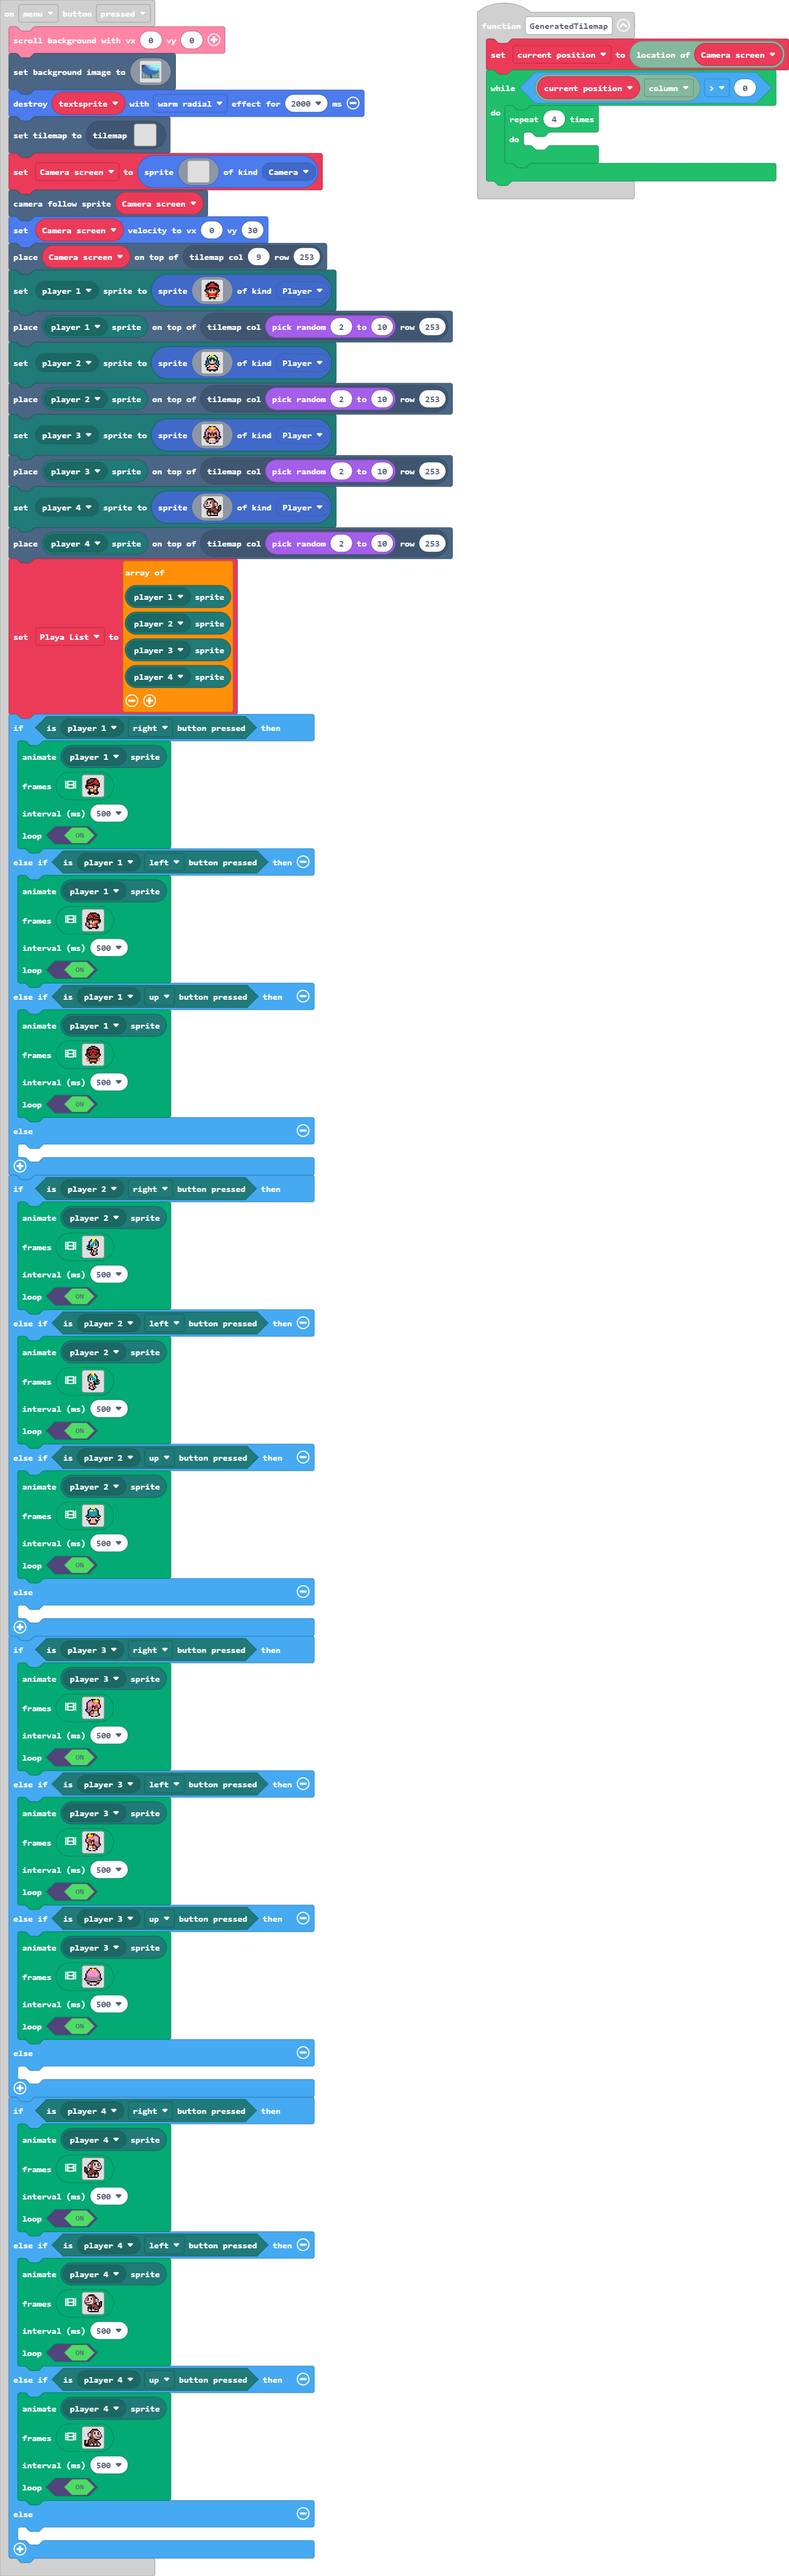
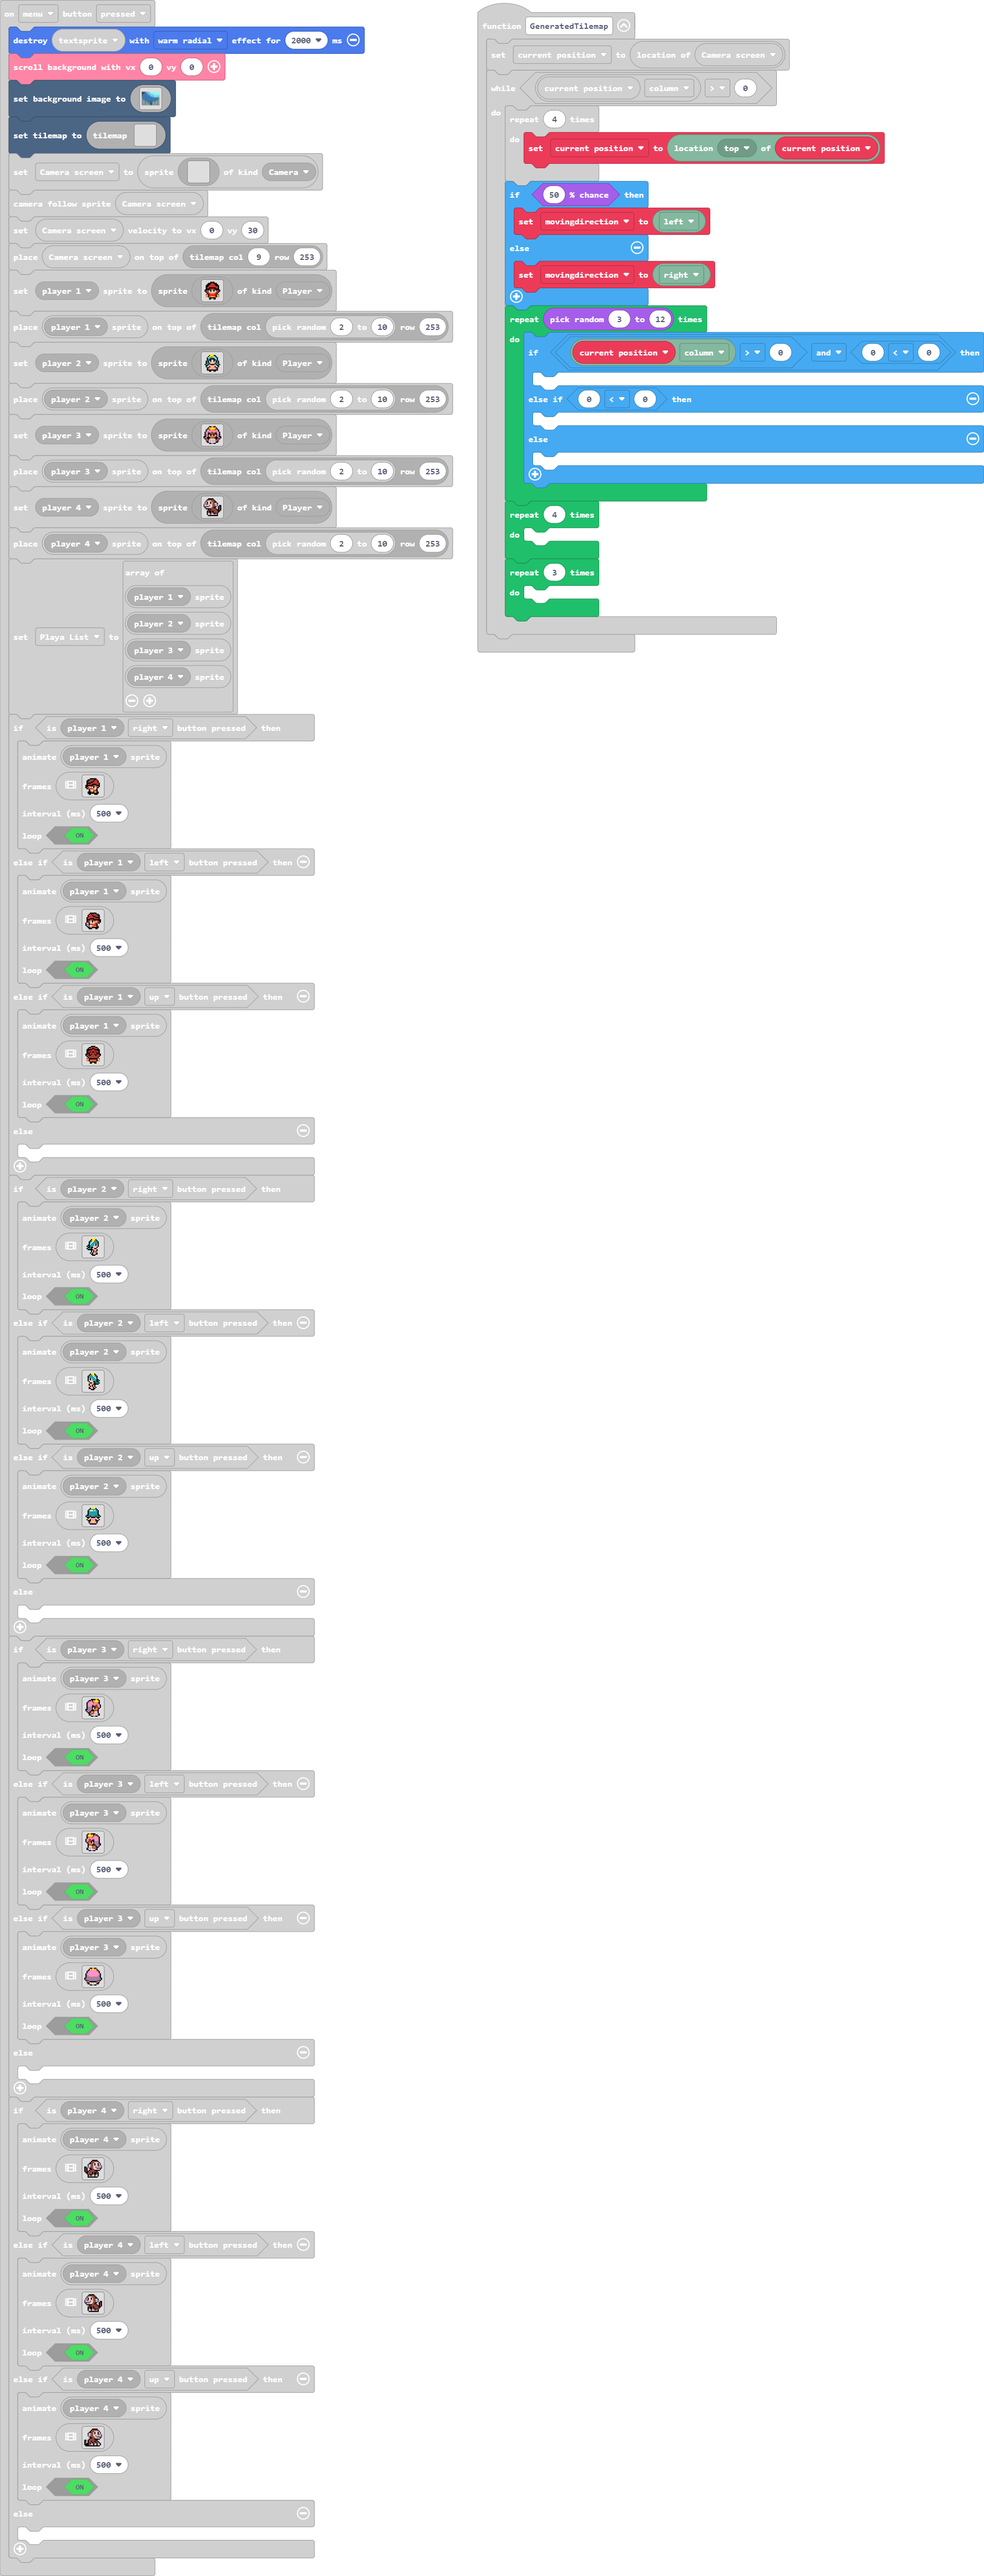
Update main.blocks, main.ts, main.py

diff --git a/main.ts b/main.ts
@@ -15,6 +15,7 @@ function Check_if_out_of_screen (end: Sprite) {
     }
 }
 controller.menu.onEvent(ControllerButtonEvent.Pressed, function () {
+    sprites.destroy(textsprite, effects.warmRadial, 2000)
     scroller.scrollBackgroundWithSpeed(0, 0)
     scene.setBackgroundImage(img`
[1 lines of base64/hex data omitted]
@@ -138,7 +139,6 @@ controller.menu.onEvent(ControllerButtonEvent.Pressed, function () {
[2 lines of base64/hex data omitted]
         `)
-    sprites.destroy(textsprite, effects.warmRadial, 2000)
     tiles.setCurrentTilemap(tilemap`level1`)
     Camera_screen = sprites.create(img`
         . . . . . . . . . . . . . . . . 
@@ -1109,10 +1109,31 @@ function GeneratedTilemap () {
     current_position = tiles.locationOfSprite(Camera_screen)
     while (tiles.locationXY(current_position, tiles.XY.column) > 0) {
         for (let index = 0; index < 4; index++) {
+            current_position = tiles.locationInDirection(current_position, CollisionDirection.Top)
+        }
+        if (Math.percentChance(50)) {
+            movingdirection = CollisionDirection.Left
+        } else {
+            movingdirection = CollisionDirection.Right
+        }
+        for (let index = 0; index < randint(3, 12); index++) {
+            if (tiles.locationXY(current_position, tiles.XY.column) > 0 && 0 < 0) {
+            	
+            } else if (0 < 0) {
+            	
+            } else {
+            	
+            }
+        }
+        for (let index = 0; index < 4; index++) {
+        	
+        }
+        for (let index = 0; index < 3; index++) {
         	
         }
     }
 }
+let movingdirection: CollisionDirection = null
 let current_position: tiles.Location = null
 let dist = 0
 let ydist = 0

diff --git a/main.py b/main.py
@@ -17,6 +17,7 @@ def Check_if_out_of_screen(end: Sprite):
 
 def on_menu_pressed():
     global Camera_screen, Playa_List
+    sprites.destroy(textsprite, effects.warm_radial, 2000)
     scroller.scroll_background_with_speed(0, 0)
     scene.set_background_image(img("""
[1 lines of base64/hex data omitted]
@@ -140,7 +141,6 @@ def on_menu_pressed():
[2 lines of base64/hex data omitted]
     """))
-    sprites.destroy(textsprite, effects.warm_radial, 2000)
     tiles.set_current_tilemap(tilemap("""
         level1
     """))
@@ -1139,11 +1139,27 @@ def on_menu_pressed():
 controller.menu.on_event(ControllerButtonEvent.PRESSED, on_menu_pressed)
 
 def GeneratedTilemap():
-    global current_position
+    global current_position, movingdirection
     current_position = tiles.location_of_sprite(Camera_screen)
     while tiles.location_xy(current_position, tiles.XY.COLUMN) > 0:
         for index2 in range(4):
+            current_position = tiles.location_in_direction(current_position, CollisionDirection.TOP)
+        if Math.percent_chance(50):
+            movingdirection = CollisionDirection.LEFT
+        else:
+            movingdirection = CollisionDirection.RIGHT
+        for index3 in range(randint(3, 12)):
+            if tiles.location_xy(current_position, tiles.XY.COLUMN) > 0 and 0 < 0:
+                pass
+            elif 0 < 0:
+                pass
+            else:
+                pass
+        for index4 in range(4):
             pass
+        for index5 in range(3):
+            pass
+movingdirection: CollisionDirection = None
 current_position: tiles.Location = None
 dist = 0
 ydist = 0
